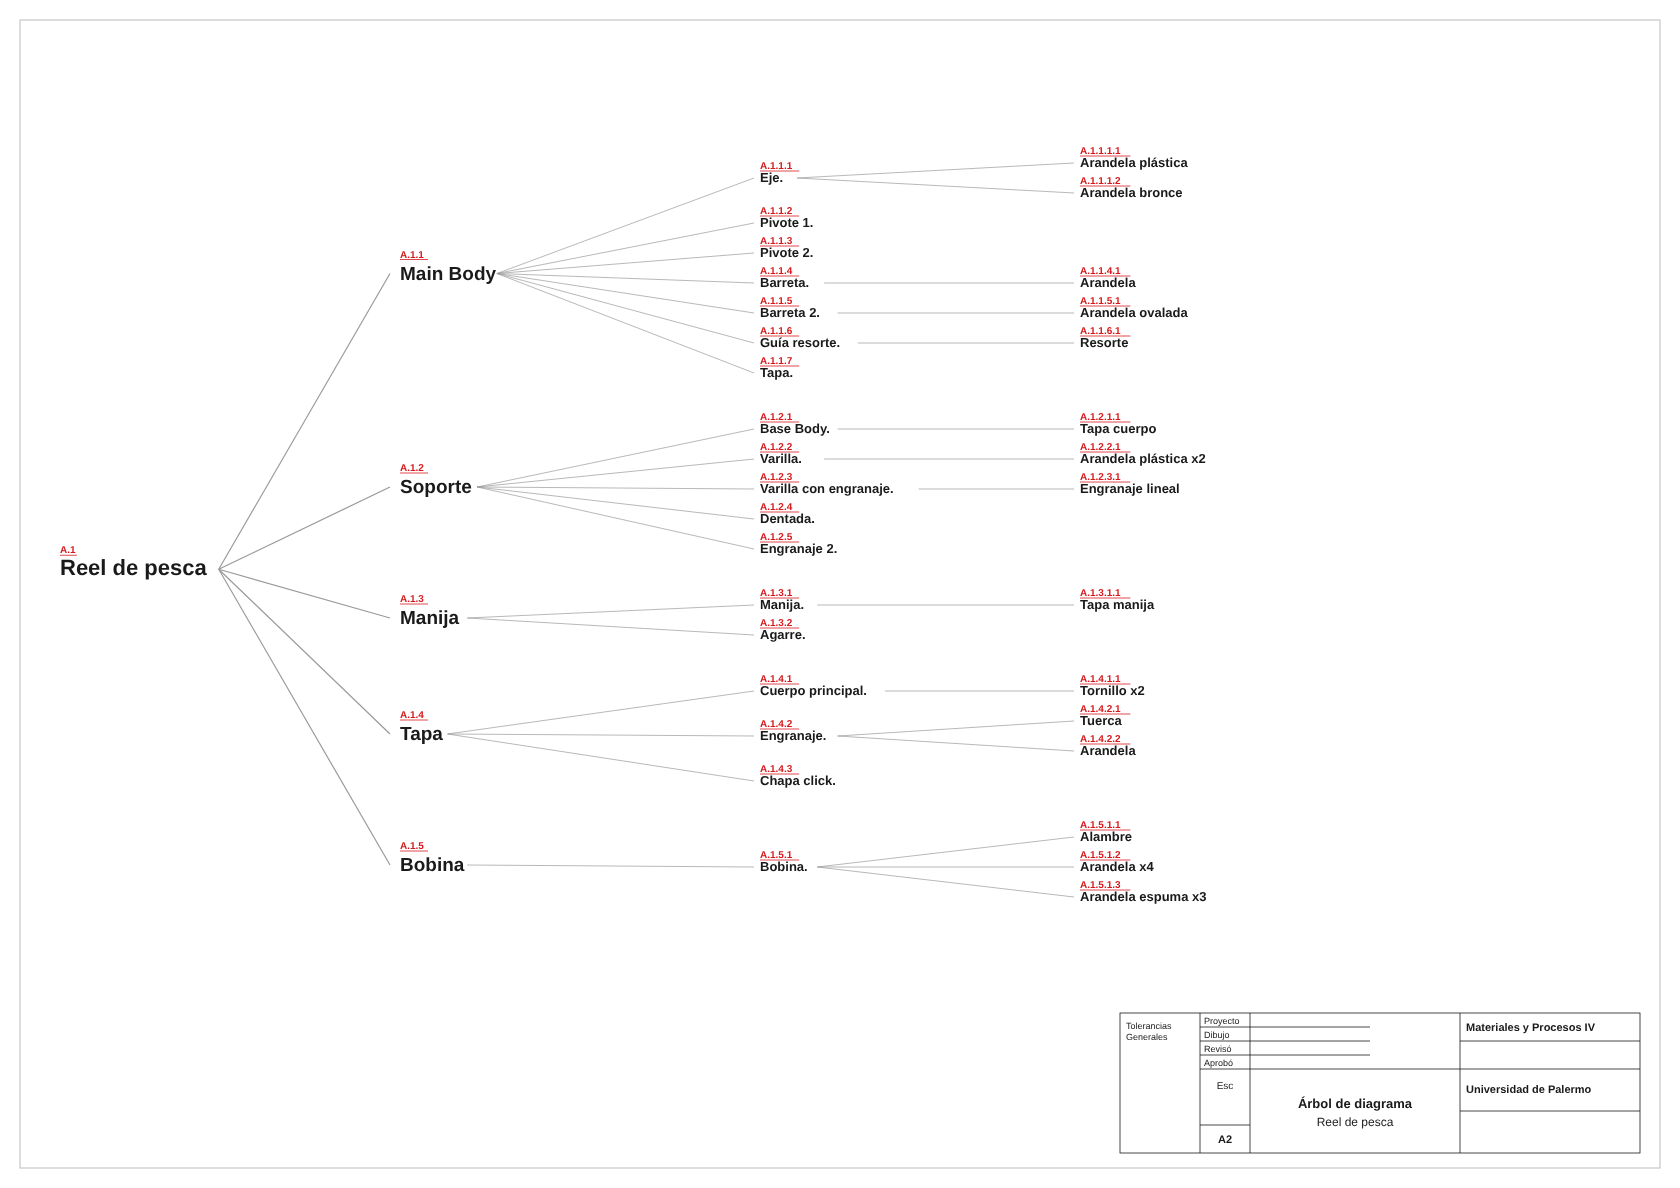
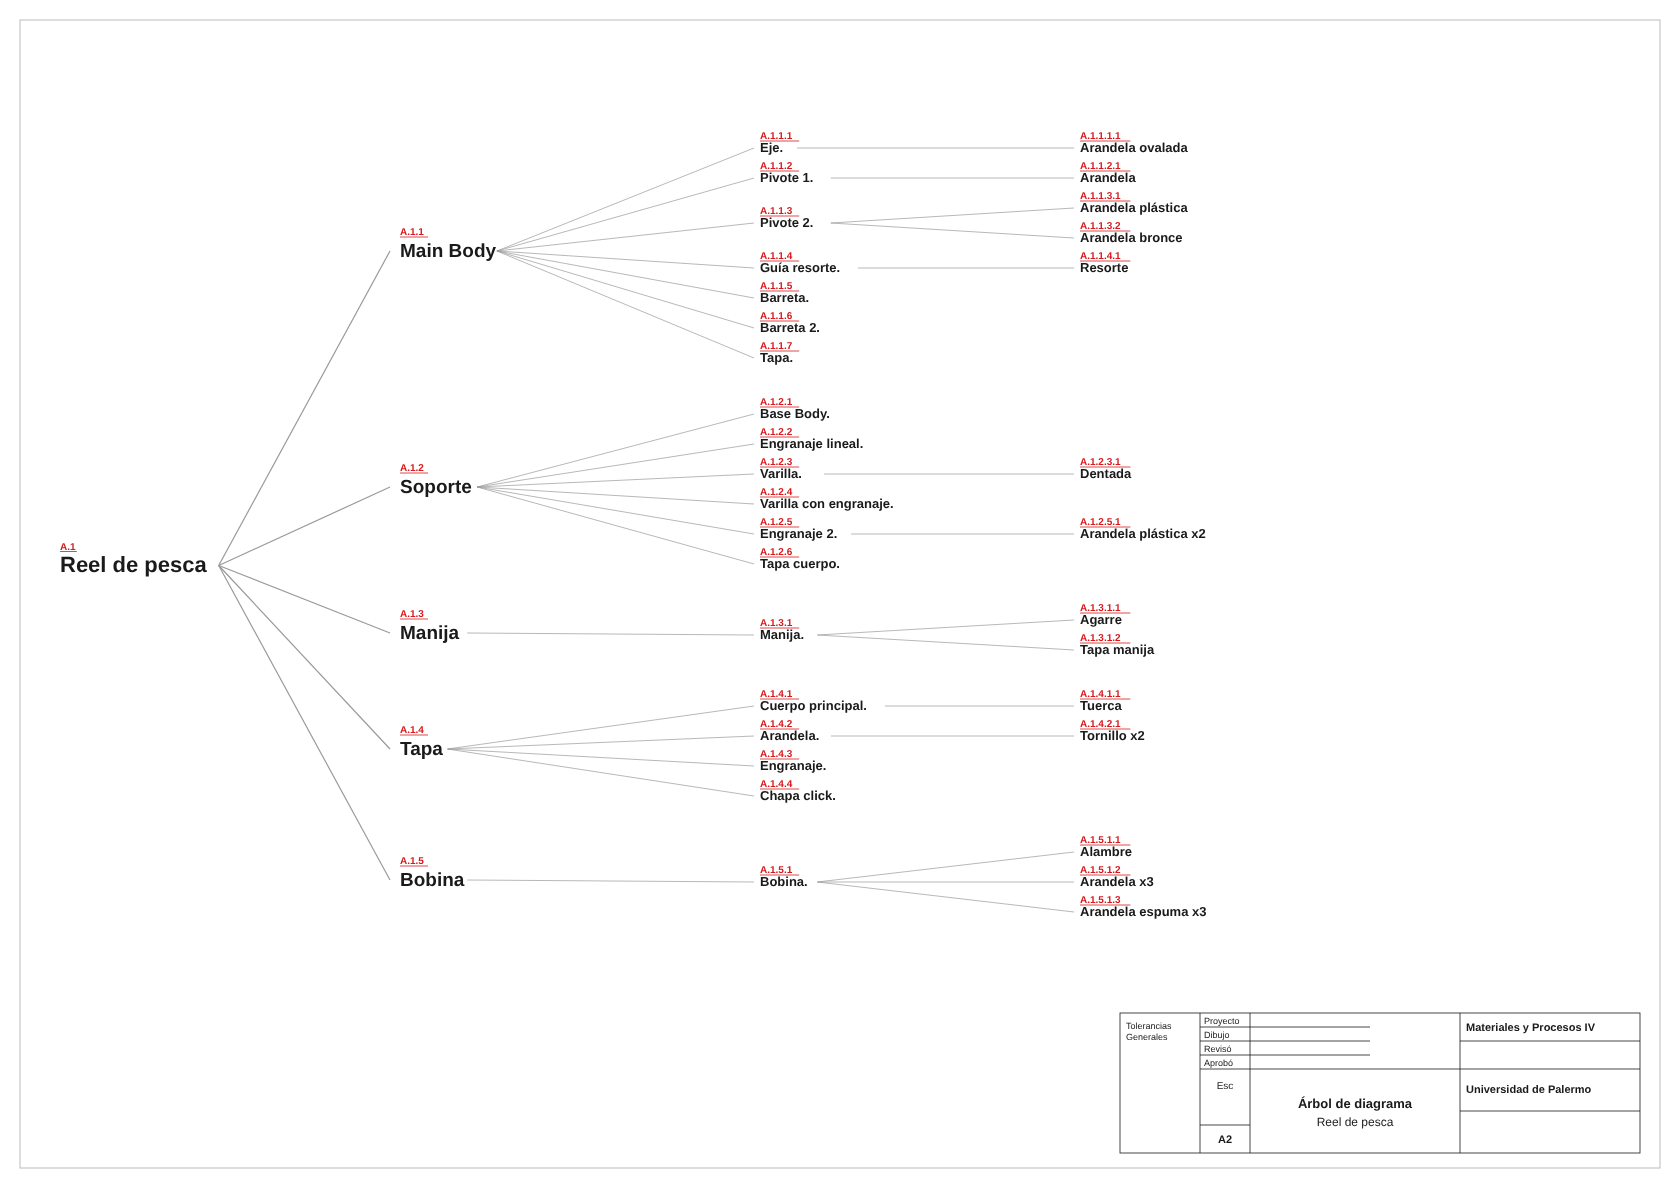
Árbol del reel: conexiones según análisis de contacto de los STEP
Claude-Session: https://claude.ai/code/session_019GMrHWWvwqzLUPMqD5ch2J

diff --git a/arbol-reel/generar_arbol.py b/arbol-reel/generar_arbol.py
@@ -5,34 +5,36 @@ from html import escape
 
 ROOT = "Reel de pesca"
 # (nombre, [hijos]) — los hijos de nivel 3 son piezas que se fijan a la pieza padre.
+# Conexiones obtenidas del análisis de contacto de los STEP (piezas que se tocan).
 TREE = [
     ("Main Body", [
-        ("Eje", ["Arandela plástica", "Arandela bronce"]),
-        ("Pivote 1", []),
-        ("Pivote 2", []),
-        ("Barreta", ["Arandela"]),
-        ("Barreta 2", ["Arandela ovalada"]),
+        ("Eje", ["Arandela ovalada"]),
+        ("Pivote 1", ["Arandela"]),
+        ("Pivote 2", ["Arandela plástica", "Arandela bronce"]),
         ("Guía resorte", ["Resorte"]),
+        ("Barreta", []),
+        ("Barreta 2", []),
         ("Tapa", []),
     ]),
     ("Soporte", [
-        ("Base Body", ["Tapa cuerpo"]),
-        ("Varilla", ["Arandela plástica x2"]),
-        ("Varilla con engranaje", ["Engranaje lineal"]),
-        ("Dentada", []),
-        ("Engranaje 2", []),
+        ("Base Body", []),
+        ("Engranaje lineal", []),
+        ("Varilla", ["Dentada"]),
+        ("Varilla con engranaje", []),
+        ("Engranaje 2", ["Arandela plástica x2"]),
+        ("Tapa cuerpo", []),
     ]),
     ("Manija", [
-        ("Manija", ["Tapa manija"]),
-        ("Agarre", []),
+        ("Manija", ["Agarre", "Tapa manija"]),
     ]),
     ("Tapa", [
-        ("Cuerpo principal", ["Tornillo x2"]),
-        ("Engranaje", ["Tuerca", "Arandela"]),
+        ("Cuerpo principal", ["Tuerca"]),
+        ("Arandela", ["Tornillo x2"]),
+        ("Engranaje", []),
         ("Chapa click", []),
     ]),
     ("Bobina", [
-        ("Bobina", ["Alambre", "Arandela x4", "Arandela espuma x3"]),
+        ("Bobina", ["Alambre", "Arandela x3", "Arandela espuma x3"]),
     ]),
 ]
 
